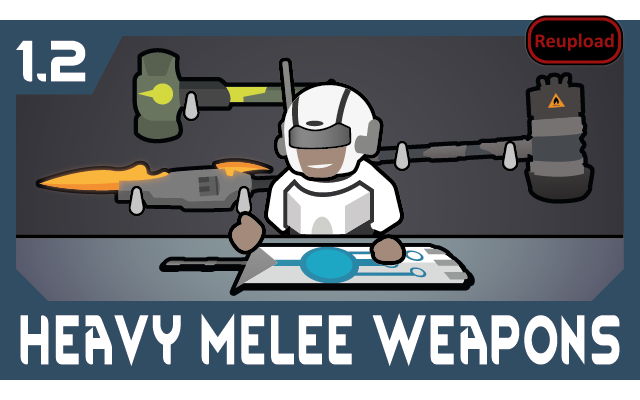
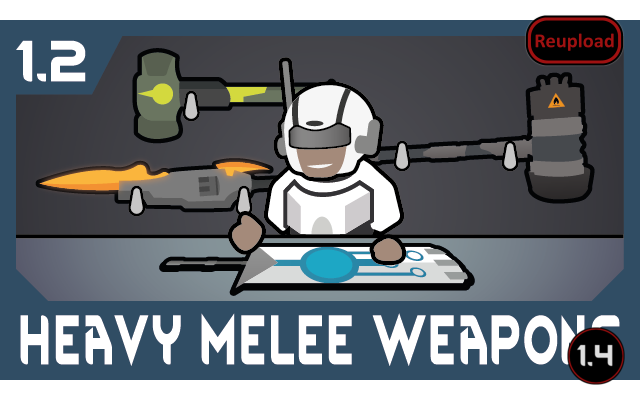
Updated patch to support the 1.4 version of [url=https://steamcommunity.com/sharedfiles/filedetails/?id=2881724503]Persona Bond[/url]

Changed region(s): [[0.875, 0.81, 1.0, 0.96]]

diff --git a/README.md b/README.md
@@ -91,3 +91,6 @@ PackageId:Pitchstone.Heavy Melee Weapons
 -  If you have the solution for a problem, please post it to the GitHub repository.
 
 
+
+https://steamcommunity.com/sharedfiles/filedetails/changelog/2932628115]![Image](https://img.shields.io/github/v/release/emipa606/HeavyMeleeWeapons?label=latest%20version&style=plastic&color=9f1111&labelColor=black)
+
